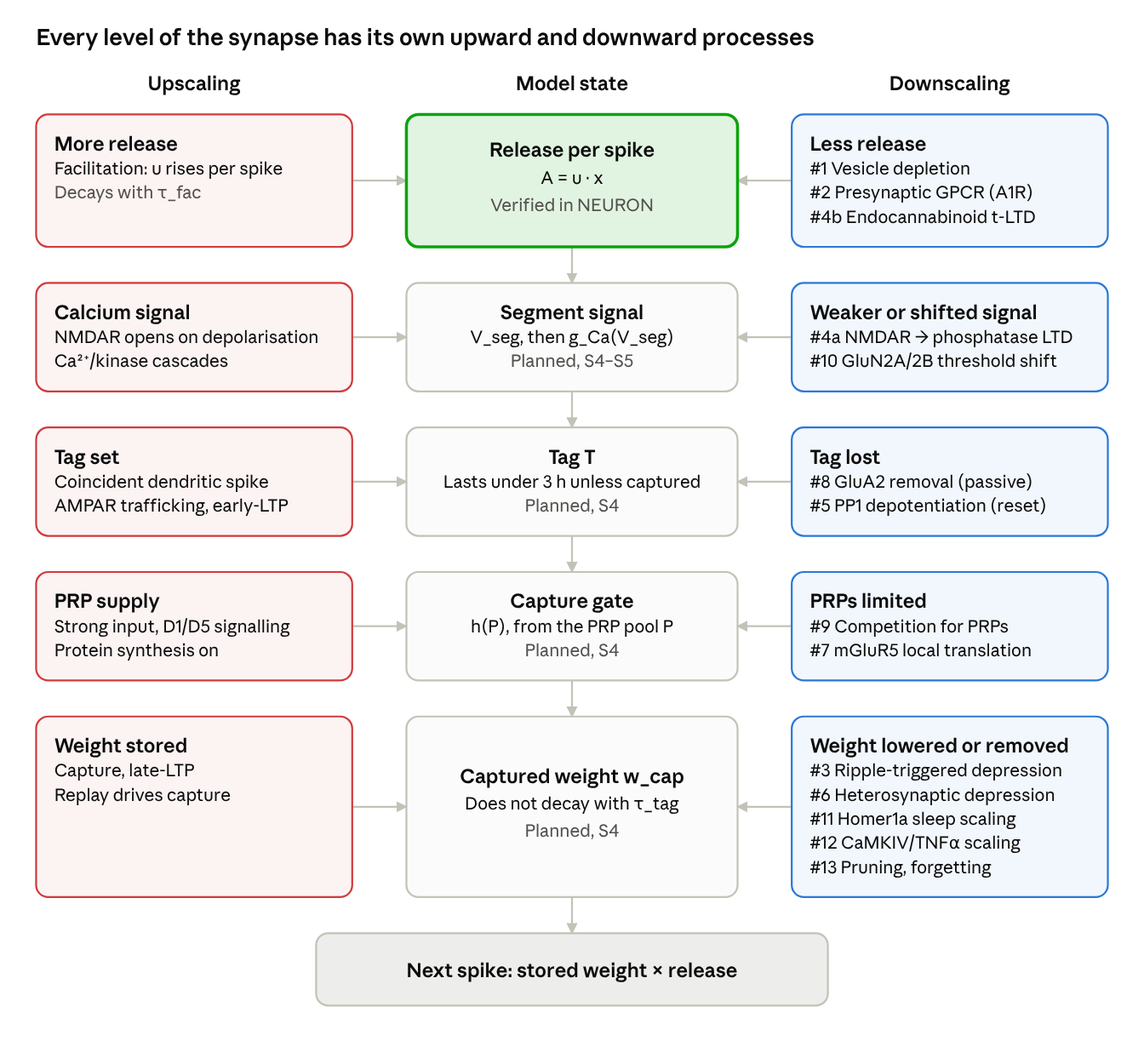
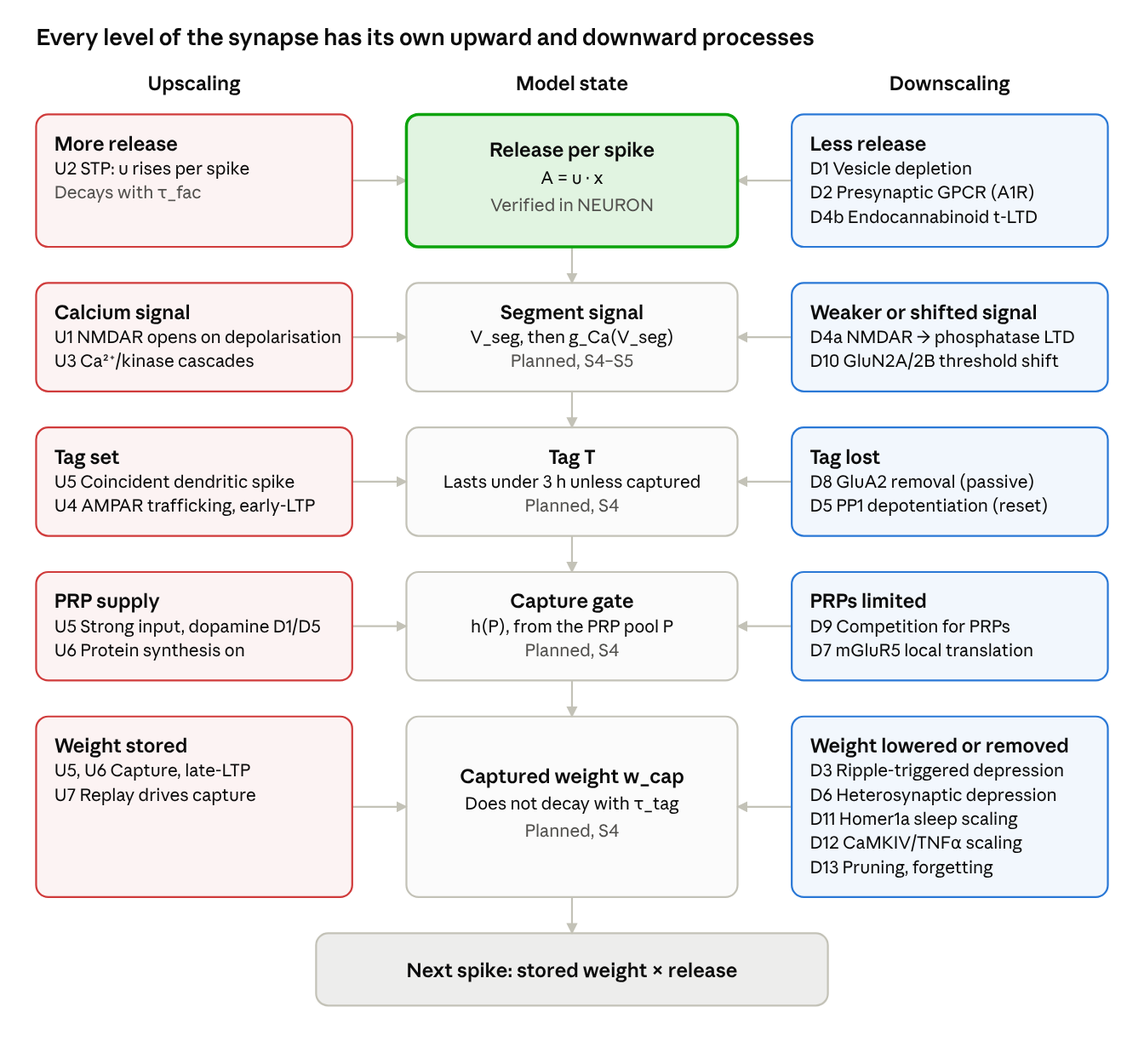
Docs: index downscaling pathways D1-D13, rename U2 to STP
Replace the # labels with D labels to match U1-U8 in the plasticity
overview and its figures, label the upscaling boxes in Figure 2, and
spell out dopamine D1/D5 receptors to avoid a clash with the new labels.

diff --git a/docs/plasticity_up_down_model_2026-11-06.md b/docs/plasticity_up_down_model_2026-11-06.md
@@ -29,6 +29,7 @@ Cell and pathway names match the [status report of November 2026](report_2026-11
 | CA1, CA3 | Cornu Ammonis areas 1 and 3 |
 | CaMKII, CaMKIV | Ca²⁺/calmodulin-dependent protein kinases II and IV |
 | CB1 | Cannabinoid receptor type 1 |
+| D1–D13 | Downscaling pathways, numbered as in Table 2; D4 has parts a and b |
 | eCB | Endocannabinoid |
 | E-LTP, L-LTP | Early and late long-term potentiation |
 | E/I | Excitation/inhibition |
@@ -61,6 +62,7 @@ Cell and pathway names match the [status report of November 2026](report_2026-11
 | T | Tag variable; also the tagged input pathway when written "T pathway" |
 | TM | Tsodyks–Markram synapse model |
 | TNFα | Tumour necrosis factor alpha |
+| U1–U8 | Upscaling processes, numbered as in Table 1 |
 | VGCC | Voltage-gated calcium channel |
 
 ## Timescales
@@ -80,14 +82,14 @@ Late-LTP has two separate times: about 4–8 h until it stabilises, then days or
 
 ## Upscaling: from one spike to a lasting weight
 
-Upscaling is a chain of eight processes (Table 1). Of these, only facilitation is implemented as plasticity so far. The NEURON model will reach as far as late-LTP, and replay enters only as an imposed input.
+Upscaling is a chain of eight processes (Table 1). Of these, only STP (U2) is implemented as plasticity so far. The NEURON model will reach as far as late-LTP, and replay enters only as an imposed input.
 
 **Table 1.** The eight upscaling processes, from fastest to slowest, with their terms in the model and their status.
 
 | # | Process | Timescale | What it does | Term in the model | Status |
 | --- | --- | --- | --- | --- | --- |
 | U1 | Neurotransmission | AMPA ms; NMDA hundreds of ms | Receptor gating carries each synaptic event | AMPA and GABA_A conductances | AMPA and GABA_A run; NMDA planned |
-| U2 | Facilitation (STP) | 10 ms–1 s | Each spike raises the release fraction u | u in `TMSyn` | Verified |
+| U2 | STP | 10 ms–1 s | Each spike raises the release fraction u | u in `TMSyn` | Verified |
 | U3 | Ca²⁺/kinase cascades | 1 s–5 min | Decides whether a weight update happens | Lumped into g_Ca(V_seg); no explicit kinase | Planned, S4–S5 |
 | U4 | AMPAR trafficking, early-LTP | 1–30 min, decays over 1–3 h | Adds receptors, independent of protein synthesis, and fades | Carried by the tag T in the plan; see limits | Planned, S4 |
 | U5 | Synaptic tagging and capture | Set during induction; tag lasts under 3 h | A local tag is captured if PRPs arrive before it decays | T, P, h(P) in `SegTag` | Planned, S4 |
@@ -133,22 +135,22 @@ Rules such as STDP, BCM or firing-rate homeostasis are a separate level: they sa
 
 | Pathway (site) | Timescale | Sensor → effector | Rule | Term in the model | Status |
 | --- | --- | --- | --- | --- | --- |
-| #1 Vesicle-pool depletion (pre) | 10 ms–10 s | Spike and VGCC Ca²⁺ → readily releasable pool depleted | Frequency-dependent depression | x in `TMSyn` | Verified, in circuit |
-| #2 Presynaptic GPCR inhibition (pre) | 50 ms–min; tonic over hours | A1R, GABA_B, group II/III mGluR → lower P_r | Tonic and neuromodulatory gain | U_eff in `TMSynPI` | A1R verified, not in circuit |
-| #3 SWR-triggered NMDAR depression (post) | Ripple about 40–100 ms; effect lasts hours | NMDAR during SWR → AMPAR weakening (effector unresolved) | Offline depression | Stored weight of non-replayed inputs | Candidate |
-| #4a NMDAR → calcineurin/PP1 LTD (post) | Induction s–min; expression hours | Moderate NMDAR Ca²⁺ → GluA1-S845 dephosphorylation, AMPAR endocytosis | Rate-dependent LTD | Low-Ca branch of g_Ca | Candidate |
-| #4b Endocannabinoid → CB1 t-LTD (pre, induced post) | Induction s–min; expression hours | Post mGluR and Ca²⁺ → eCB; pre CB1 and NMDAR → lower P_r | STDP depression | Reduction of U | Open: see limits |
-| #5 PP1 depotentiation (post) | Minutes to tens of minutes, by protocol | LFS, NMDAR Ca²⁺ and A1R → PP1 reverses phosphorylation | Reversal of recent LTP | Active reset of T | Candidate |
-| #6 IP3R/calcineurin heterosynaptic depression (post, unstimulated) | Min–hours | Neighbour potentiation, group I mGluR, IP3R Ca²⁺ → inactive spines shrink | Heterosynaptic normalisation | Conservation per segment | Candidate |
-| #7 mGluR5 → local-translation LTD (post) | Min–1 day | Group I mGluR → Arc, STEP, MAP1B translation, AMPAR endocytosis | Protein-synthesis-dependent LTD | Draws on the PRP machinery | Deferred |
-| #8 Constitutive GluA2 endocytosis (post) | Early-LTP under 3 h; also erodes established memory over weeks | No sensor: absence of capture → inserted AMPARs removed | Decay of unconsolidated LTP | τ_tag | Planned, S4 |
-| #9 PRP competition (post; extent of the pool debated) | 30 min–8 h | No sensor: finite pool, synthesis against degradation | Competition between inputs | Shared capture resource | Not in the equations yet |
-| #10 GluN2A/2B threshold shift (post) | 30 min–days | Activity history → subunit ratio changes | BCM sliding threshold | Moves θ_p of g_Ca | Candidate |
-| #11 Homer1a–mGluR5 sleep scaling (post) | Hours, each sleep cycle | Sleep state → Homer1a → GluA1 dephosphorylation, AMPAR removal | SHY | Global step between replay epochs | Deferred |
-| #12 CaMKIV/TNFα synaptic scaling (post; also P_r) | Hours to days | Somatic Ca²⁺, glial TNFα → multiplicative AMPAR change | Firing-rate homeostasis | Multiplicative factor on weights | Candidate, needs stated compression |
-| #13 Complement pruning, Rac1/cofilin (whole synapse) | Days–months | C1q/C3 at weak synapses → microglial removal; actin disassembly | Structural forgetting | Removal of uncaptured traces | Deferred |
+| D1 Vesicle-pool depletion (pre) | 10 ms–10 s | Spike and VGCC Ca²⁺ → readily releasable pool depleted | Frequency-dependent depression | x in `TMSyn` | Verified, in circuit |
+| D2 Presynaptic GPCR inhibition (pre) | 50 ms–min; tonic over hours | A1R, GABA_B, group II/III mGluR → lower P_r | Tonic and neuromodulatory gain | U_eff in `TMSynPI` | A1R verified, not in circuit |
+| D3 SWR-triggered NMDAR depression (post) | Ripple about 40–100 ms; effect lasts hours | NMDAR during SWR → AMPAR weakening (effector unresolved) | Offline depression | Stored weight of non-replayed inputs | Candidate |
+| D4a NMDAR → calcineurin/PP1 LTD (post) | Induction s–min; expression hours | Moderate NMDAR Ca²⁺ → GluA1-S845 dephosphorylation, AMPAR endocytosis | Rate-dependent LTD | Low-Ca branch of g_Ca | Candidate |
+| D4b Endocannabinoid → CB1 t-LTD (pre, induced post) | Induction s–min; expression hours | Post mGluR and Ca²⁺ → eCB; pre CB1 and NMDAR → lower P_r | STDP depression | Reduction of U | Open: see limits |
+| D5 PP1 depotentiation (post) | Minutes to tens of minutes, by protocol | LFS, NMDAR Ca²⁺ and A1R → PP1 reverses phosphorylation | Reversal of recent LTP | Active reset of T | Candidate |
+| D6 IP3R/calcineurin heterosynaptic depression (post, unstimulated) | Min–hours | Neighbour potentiation, group I mGluR, IP3R Ca²⁺ → inactive spines shrink | Heterosynaptic normalisation | Conservation per segment | Candidate |
+| D7 mGluR5 → local-translation LTD (post) | Min–1 day | Group I mGluR → Arc, STEP, MAP1B translation, AMPAR endocytosis | Protein-synthesis-dependent LTD | Draws on the PRP machinery | Deferred |
+| D8 Constitutive GluA2 endocytosis (post) | Early-LTP under 3 h; also erodes established memory over weeks | No sensor: absence of capture → inserted AMPARs removed | Decay of unconsolidated LTP | τ_tag | Planned, S4 |
+| D9 PRP competition (post; extent of the pool debated) | 30 min–8 h | No sensor: finite pool, synthesis against degradation | Competition between inputs | Shared capture resource | Not in the equations yet |
+| D10 GluN2A/2B threshold shift (post) | 30 min–days | Activity history → subunit ratio changes | BCM sliding threshold | Moves θ_p of g_Ca | Candidate |
+| D11 Homer1a–mGluR5 sleep scaling (post) | Hours, each sleep cycle | Sleep state → Homer1a → GluA1 dephosphorylation, AMPAR removal | SHY | Global step between replay epochs | Deferred |
+| D12 CaMKIV/TNFα synaptic scaling (post; also P_r) | Hours to days | Somatic Ca²⁺, glial TNFα → multiplicative AMPAR change | Firing-rate homeostasis | Multiplicative factor on weights | Candidate, needs stated compression |
+| D13 Complement pruning, Rac1/cofilin (whole synapse) | Days–months | C1q/C3 at weak synapses → microglial removal; actin disassembly | Structural forgetting | Removal of uncaptured traces | Deferred |
 
-"Candidate" means proposed for after S4–S6, in this order: #8 and #5, #4a and #10, #6, #3, #12. Nothing in this group is built yet.
+"Candidate" means proposed for after S4–S6, in this order: D8 and D5, D4a and D10, D6, D3, D12. Nothing in this group is built yet.
 
 The sections below group the pathways by the model state they act on, in the same order as Figure 2. Release-level equations are implemented and verified. Equations marked "proposed" are our suggested forms: they are not in the plan, and their parameters have no source yet.
 
@@ -156,7 +158,7 @@ The sections below group the pathways by the model state they act on, in the sam
 
 These pathways lower release, not the stored weight. The fast ones recover on their own, and all of them act through x or U.
 
-**#1 Vesicle-pool depletion.** Each release uses part of the readily releasable pool, so later responses in a train shrink until the pool recovers. Single hippocampal release sites have small pools, about 5 quanta on average (Dobrunz & Stevens 1997). The model represents this with x, the available resources. It does not include receptor desensitisation or release-site refractoriness.
+**D1 Vesicle-pool depletion.** Each release uses part of the readily releasable pool, so later responses in a train shrink until the pool recovers. Single hippocampal release sites have small pools, about 5 quanta on average (Dobrunz & Stevens 1997). The model represents this with x, the available resources. It does not include receptor desensitisation or release-site refractoriness.
 
 ```math
 x_n^+ = x_n^-(1 - u_n^+), \qquad \frac{dx}{dt} = \frac{1 - x}{\tau_{rec}} \qquad (5)
@@ -164,7 +166,7 @@ x_n^+ = x_n^-(1 - u_n^+), \qquad \frac{dx}{dt} = \frac{1 - x}{\tau_{rec}} \qquad
 
 τ_rec ranges from 138 to 1250 ms across our pathways, so inhibitory synapses onto PYR recover most slowly.
 
-**#2 Presynaptic GPCR inhibition.** A1R, GABA_B and group II/III mGluRs lower release probability through G-protein inhibition of calcium channels and the release machinery. Adenosine acts in two ways: a tonic level, and a phasic rise released by activity (Mitchell, Lupica & Dunwiddie 1993). `TMSynPI` implements both for A1R:
+**D2 Presynaptic GPCR inhibition.** A1R, GABA_B and group II/III mGluRs lower release probability through G-protein inhibition of calcium channels and the release machinery. Adenosine acts in two ways: a tonic level, and a phasic rise released by activity (Mitchell, Lupica & Dunwiddie 1993). `TMSynPI` implements both for A1R:
 
 ```math
 U_{eff} = U\,(1 - i_{tonic})\,(1 - I(t)), \qquad I(t) = i_{max}\left(1 - e^{-D(t)}\right) \qquad (6)
@@ -172,7 +174,7 @@ U_{eff} = U\,(1 - i_{tonic})\,(1 - I(t)), \qquad I(t) = i_{max}\left(1 - e^{-D(t
 
 D(t) sums a double-exponential term for each SC volley, after a 50 ms lag. From Mitchell et al. (rat, 34 °C, 2.5 mM Ca, SC fEPSP): i_tonic = 0.15, i_max = 0.40 as a lower bound, and c = 0.315 per volley. The rise and decay constants, 168 and 176 ms, were fitted to that paper's time course. At this drive SC→PYR loses its net upscaling window. For GABA_B we have only a maximum effect, so it does not run.
 
-**#4b Endocannabinoid → CB1 t-LTD.** When a postsynaptic spike precedes a presynaptic one, postsynaptic calcium and group I mGluR drive endocannabinoid synthesis. Retrograde CB1 activation, together with presynaptic NMDARs, then lowers release (Sjöström 2003, neocortical layer 5). At mouse CA3→CA1 synapses at P12–P18, this form also needs IP3R calcium release, astrocyte signalling and presynaptic calcineurin (Andrade-Talavera 2016). It is lost in the fourth postnatal week but returns when A1Rs are blocked (Pérez-Rodríguez 2019), which links it to #2. Because expression is presynaptic, the proposed form scales U:
+**D4b Endocannabinoid → CB1 t-LTD.** When a postsynaptic spike precedes a presynaptic one, postsynaptic calcium and group I mGluR drive endocannabinoid synthesis. Retrograde CB1 activation, together with presynaptic NMDARs, then lowers release (Sjöström 2003, neocortical layer 5). At mouse CA3→CA1 synapses at P12–P18, this form also needs IP3R calcium release, astrocyte signalling and presynaptic calcineurin (Andrade-Talavera 2016). It is lost in the fourth postnatal week but returns when A1Rs are blocked (Pérez-Rodríguez 2019), which links it to D2. Because expression is presynaptic, the proposed form scales U:
 
 ```math
 U \rightarrow U\,(1 - d_{tLTD}) \quad \text{(proposed)} \qquad (7)
@@ -182,15 +184,15 @@ U \rightarrow U\,(1 - d_{tLTD}) \quad \text{(proposed)} \qquad (7)
 
 These pathways decide the sign of a change. They do not exist in the current plan, which has one sigmoid and can only set a tag.
 
-**#4a NMDAR → calcineurin/PP1 LTD.** Modest, prolonged NMDAR calcium favours phosphatases over kinases. Calcineurin inactivates inhibitor-1, which frees PP1 (Mulkey 1994). GluA1 is then dephosphorylated and AMPARs are removed by endocytosis. In rat CA1, 900 pulses at 1–3 Hz depress responses for over 1 h, while the same pulses at 50 Hz usually potentiate (Dudek & Bear 1992). This LTD is input-specific and needs postsynaptic calcium (Mulkey & Malenka 1992). The site dephosphorylated depends on history: the PKA site in naive synapses, the CaMKII site in potentiated ones (Lee 2000). The calcium-control hypothesis reduces this to two thresholds (Lisman 1989; Shouval 2002):
+**D4a NMDAR → calcineurin/PP1 LTD.** Modest, prolonged NMDAR calcium favours phosphatases over kinases. Calcineurin inactivates inhibitor-1, which frees PP1 (Mulkey 1994). GluA1 is then dephosphorylated and AMPARs are removed by endocytosis. In rat CA1, 900 pulses at 1–3 Hz depress responses for over 1 h, while the same pulses at 50 Hz usually potentiate (Dudek & Bear 1992). This LTD is input-specific and needs postsynaptic calcium (Mulkey & Malenka 1992). The site dephosphorylated depends on history: the PKA site in naive synapses, the CaMKII site in potentiated ones (Lee 2000). The calcium-control hypothesis reduces this to two thresholds (Lisman 1989; Shouval 2002):
 
 ```math
 \text{outcome}(Ca) = \begin{cases} \text{no change} & Ca < \theta_d \\ \text{depression} & \theta_d \le Ca < \theta_p \\ \text{tag} & Ca \ge \theta_p \end{cases} \quad \text{(proposed)} \qquad (8)
 ```
 
-Eq. 8 would replace the single sigmoid g_Ca of Eq. 2. It covers rate dependence only; timing-dependent depression is #4b.
+Eq. 8 would replace the single sigmoid g_Ca of Eq. 2. It covers rate dependence only; timing-dependent depression is D4b.
 
-**#10 GluN2A/2B threshold shift.** The LTD/LTP crossover moves with recent activity: high activity raises θ_p and favours depression, and low activity lowers it. BCM is the rule (Bienenstock, Cooper & Munro 1982), and NMDAR subunit composition is one possible substrate. In rat visual cortex, experience reduces NR2B-only receptors and shortens NMDAR currents within hours, while deprivation reverses this over days (Philpot 2001). We have no CA1 source yet. The proposed form adds one slow state per segment, driven by the time-averaged calcium signal:
+**D10 GluN2A/2B threshold shift.** The LTD/LTP crossover moves with recent activity: high activity raises θ_p and favours depression, and low activity lowers it. BCM is the rule (Bienenstock, Cooper & Munro 1982), and NMDAR subunit composition is one possible substrate. In rat visual cortex, experience reduces NR2B-only receptors and shortens NMDAR currents within hours, while deprivation reverses this over days (Philpot 2001). We have no CA1 source yet. The proposed form adds one slow state per segment, driven by the time-averaged calcium signal:
 
 ```math
 \tau_\theta \frac{d\theta_p}{dt} = \theta_0 + \beta\,\bar{g}_{Ca} - \theta_p \quad \text{(proposed)} \qquad (9)
@@ -200,11 +202,11 @@ Eq. 8 would replace the single sigmoid g_Ca of Eq. 2. It covers rate dependence 
 
 The tag can be lost in two ways: passively, or by an active reset. The first is built into the plan; the second would give the capture test a second falsification arm.
 
-**#8 Constitutive GluA2 endocytosis.** No sensor is needed. Without capture, AMPAR endocytosis removes the added receptors, and blocking this endocytosis converts decaying LTP into non-decaying LTP (Dong 2015). In the plan this is the decay term −T/τ_tag of Eq. 4. The process does not stop at the tag: blocking GluA2 removal with interference peptides prevents forgetting of established memories in rats (Migues 2016). The plan does not include that slower action on captured weight.
+**D8 Constitutive GluA2 endocytosis.** No sensor is needed. Without capture, AMPAR endocytosis removes the added receptors, and blocking this endocytosis converts decaying LTP into non-decaying LTP (Dong 2015). In the plan this is the decay term −T/τ_tag of Eq. 4. The process does not stop at the tag: blocking GluA2 removal with interference peptides prevents forgetting of established memories in rats (Migues 2016). The plan does not include that slower action on captured weight.
 
-**#5 PP1 depotentiation.** Low-frequency stimulation soon after LTP induction reverses it, through NMDARs and protein phosphatases (O'Dell & Kandel 1994). The window depends on protocol and preparation:
+**D5 PP1 depotentiation.** Low-frequency stimulation soon after LTP induction reverses it, through NMDARs and protein phosphatases (O'Dell & Kandel 1994). The window depends on protocol and preparation:
 
-- **Rat slices, 2 Hz for 10 min:** effective at 3 min or less, not at 10 min. It needs A1R, which ties it to #2 (Huang 1999).
+- **Rat slices, 2 Hz for 10 min:** effective at 3 min or less, not at 10 min. It needs A1R, which ties it to D2 (Huang 1999).
 - **Adult rats in vivo, 1 Hz then 5 Hz:** given 5–15 min after LTP, it reversed potentiation for the 1 h test in 64% of animals (Staubli & Lynch 1990).
 - **Guinea pig slices, 1 Hz for 1000 pulses:** given at 20 min, it reduced the potentiated EPSP slope by 68.5%, with less effect at 100 min (Fujii 1991).
 
@@ -218,43 +220,43 @@ T \rightarrow \rho\,T, \quad 0 \le \rho < 1, \quad \text{if LFS arrives within }
 
 These pathways make capture a limited resource instead of an independent gate at each synapse.
 
-**#9 PRP competition.** Under reduced protein synthesis, new protein-synthesis-dependent LTP on one pathway occurs at the expense of maintaining earlier LTP on another (Fonseca 2004). Synthesis is not the only factor: blocking proteasomal degradation also disrupts late-LTP, and blocking both restores it (Fonseca 2006). The planned equations (Eqs. 3 and 4) cannot show competition, because capture never consumes P. The proposed form shares P within a compartment and adds consumption over its tagged groups j:
+**D9 PRP competition.** Under reduced protein synthesis, new protein-synthesis-dependent LTP on one pathway occurs at the expense of maintaining earlier LTP on another (Fonseca 2004). Synthesis is not the only factor: blocking proteasomal degradation also disrupts late-LTP, and blocking both restores it (Fonseca 2006). The planned equations (Eqs. 3 and 4) cannot show competition, because capture never consumes P. The proposed form shares P within a compartment and adds consumption over its tagged groups j:
 
 ```math
 \frac{dP}{dt} = -\frac{P}{\tau_P} - \gamma \sum_j k_{cap}\, h(P)\, T_j \quad \text{(proposed)} \qquad (11)
 ```
 
-**#7 mGluR5 → local-translation LTD.** Group I mGluR activation triggers local protein synthesis in dendrites that changes transmission within minutes (Huber 2000). Rapid Arc translation raises the AMPAR endocytosis rate for a long time, and this LTD needs Arc; NMDAR-LTD does not (Waung 2008). The two LTD forms coexist in juvenile rat CA1 and are mechanistically distinct (Oliet 1997). That paper found reduced event frequency with no change in quantal size for mGluR-LTD, so its expression site is not settled by the abstracts we read. Our link to capture, that it competes for the same translation machinery, is a hypothesis. We propose no equation until the sign of change and the LTD tag are decided.
+**D7 mGluR5 → local-translation LTD.** Group I mGluR activation triggers local protein synthesis in dendrites that changes transmission within minutes (Huber 2000). Rapid Arc translation raises the AMPAR endocytosis rate for a long time, and this LTD needs Arc; NMDAR-LTD does not (Waung 2008). The two LTD forms coexist in juvenile rat CA1 and are mechanistically distinct (Oliet 1997). That paper found reduced event frequency with no change in quantal size for mGluR-LTD, so its expression site is not settled by the abstracts we read. Our link to capture, that it competes for the same translation machinery, is a hypothesis. We propose no equation until the sign of change and the LTD tag are decided.
 
 ### Stored weight: lowering or removing what was kept
 
 These pathways act on the stored weight, mostly offline and over hours or longer. All of them are outside the current plan, and the slower ones would need a stated compression factor in any short run.
 
-**#3 SWR-triggered NMDAR depression.** In mice, sharp-wave ripples trigger long-lasting, NMDAR-dependent depression selective for one input pathway. Silencing ripples during slow-wave states prevented the down-regulation of net synaptic weights and impaired new learning (Norimoto 2018). The downstream effector is not resolved. CA1 firing in rats falls 11% per hour across sleep, and spindle and ripple incidence predict the change (Miyawaki & Diba 2016). In mouse cortex, Up states bias plasticity towards depression of inputs that do not drive the cell (González-Rueda 2018). The proposed form applies per ripple to inputs not replayed:
+**D3 SWR-triggered NMDAR depression.** In mice, sharp-wave ripples trigger long-lasting, NMDAR-dependent depression selective for one input pathway. Silencing ripples during slow-wave states prevented the down-regulation of net synaptic weights and impaired new learning (Norimoto 2018). The downstream effector is not resolved. CA1 firing in rats falls 11% per hour across sleep, and spindle and ripple incidence predict the change (Miyawaki & Diba 2016). In mouse cortex, Up states bias plasticity towards depression of inputs that do not drive the cell (González-Rueda 2018). The proposed form applies per ripple to inputs not replayed:
 
 ```math
 w_j \rightarrow w_j\,(1 - \delta_{SWR}), \quad j \notin \text{replayed} \quad \text{(proposed)} \qquad (12)
 ```
 
-**#6 IP3R/calcineurin heterosynaptic depression.** Potentiating several neighbouring spines on a CA1 dendrite shrinks and weakens nearby unstimulated ones. Blocking calcineurin, IP3Rs or group I mGluRs stops this shrinkage but not the potentiation, which points to an active signal rather than competition for structural resources (Oh 2015). In amygdala intercalated neurons, opposite heterosynaptic changes keep total weight nearly constant (Royer & Paré 2003); we have no such measurement for CA1. The proposed form spreads the potentiation over the N_i inactive synapses of the same segment, once enough neighbours have potentiated:
+**D6 IP3R/calcineurin heterosynaptic depression.** Potentiating several neighbouring spines on a CA1 dendrite shrinks and weakens nearby unstimulated ones. Blocking calcineurin, IP3Rs or group I mGluRs stops this shrinkage but not the potentiation, which points to an active signal rather than competition for structural resources (Oh 2015). In amygdala intercalated neurons, opposite heterosynaptic changes keep total weight nearly constant (Royer & Paré 2003); we have no such measurement for CA1. The proposed form spreads the potentiation over the N_i inactive synapses of the same segment, once enough neighbours have potentiated:
 
 ```math
 \Delta w_j = -\frac{\beta}{N_i} \sum_{i\ \text{potentiated}} \Delta w_i \quad \text{(proposed)} \qquad (13)
 ```
 
-**#11 Homer1a–mGluR5 sleep scaling.** During sleep in mice, synapses lose and dephosphorylate AMPARs, driven by Homer1a and group I mGluR signalling. Noradrenaline and adenosine link this to arousal and sleep need (Diering 2017). In rat cortex and hippocampus, GluA1-containing AMPAR levels are high in wake and low in sleep (Vyazovskiy 2008). In mouse cortex the axon–spine interface shrinks about 18% after sleep in proportion to its size, but large synapses are spared (de Vivo 2017). So the scaling is not uniform. REM sleep in mouse motor cortex both prunes and strengthens new spines (Li 2017). The proposed form is one step per sleep cycle, excluding a spared set:
+**D11 Homer1a–mGluR5 sleep scaling.** During sleep in mice, synapses lose and dephosphorylate AMPARs, driven by Homer1a and group I mGluR signalling. Noradrenaline and adenosine link this to arousal and sleep need (Diering 2017). In rat cortex and hippocampus, GluA1-containing AMPAR levels are high in wake and low in sleep (Vyazovskiy 2008). In mouse cortex the axon–spine interface shrinks about 18% after sleep in proportion to its size, but large synapses are spared (de Vivo 2017). So the scaling is not uniform. REM sleep in mouse motor cortex both prunes and strengthens new spines (Li 2017). The proposed form is one step per sleep cycle, excluding a spared set:
 
 ```math
 w_j \rightarrow w_j\,(1 - \varepsilon_{sleep}), \quad j \notin \text{spared} \quad \text{(proposed)} \qquad (14)
 ```
 
-**#12 CaMKIV/TNFα synaptic scaling.** Sustained changes in firing scale all of a neuron's excitatory synapses up or down (Turrigiano 1998). Reduced somatic calcium lowers CaMKIV activation and increases transcription (Ibata 2008); glial TNFα and Arc-driven AMPAR endocytosis also contribute (Stellwagen & Malenka 2006; Shepherd 2006). Most of this evidence comes from culture, and much of it is scaling up after silencing. In hippocampal organotypic cultures the response is synapse-specific: CA3→CA1 goes up, and recurrent CA3→CA3 goes down (Kim & Tsien 2008). Local dendritic activity also sets release probability (Branco 2008), so a presynaptic term would scale U. The proposed postsynaptic form, with r the firing rate and r\* its target, is:
+**D12 CaMKIV/TNFα synaptic scaling.** Sustained changes in firing scale all of a neuron's excitatory synapses up or down (Turrigiano 1998). Reduced somatic calcium lowers CaMKIV activation and increases transcription (Ibata 2008); glial TNFα and Arc-driven AMPAR endocytosis also contribute (Stellwagen & Malenka 2006; Shepherd 2006). Most of this evidence comes from culture, and much of it is scaling up after silencing. In hippocampal organotypic cultures the response is synapse-specific: CA3→CA1 goes up, and recurrent CA3→CA3 goes down (Kim & Tsien 2008). Local dendritic activity also sets release probability (Branco 2008), so a presynaptic term would scale U. The proposed postsynaptic form, with r the firing rate and r\* its target, is:
 
 ```math
 \tau_s \frac{dw_i}{dt} = w_i\,\frac{r^* - r}{r^*} \quad \text{(proposed)} \qquad (15)
 ```
 
-**#13 Complement pruning and Rac1/cofilin forgetting.** Over long periods, whole synapses are removed. In adult mouse hippocampus, microglia engulf synaptic components, and depleting microglia or inhibiting complement in engram cells prevents forgetting (Wang 2020). Rac-dependent forgetting was first shown in *Drosophila* (Shuai 2010). Dentate neurogenesis also causes forgetting (Akers 2014), but it lies outside our CA1 circuit. We propose no equation: this pathway ends the life of a trace, far beyond any planned run.
+**D13 Complement pruning and Rac1/cofilin forgetting.** Over long periods, whole synapses are removed. In adult mouse hippocampus, microglia engulf synaptic components, and depleting microglia or inhibiting complement in engram cells prevents forgetting (Wang 2020). Rac-dependent forgetting was first shown in *Drosophila* (Shuai 2010). Dentate neurogenesis also causes forgetting (Akers 2014), but it lies outside our CA1 circuit. We propose no equation: this pathway ends the life of a trace, far beyond any planned run.
 
 ## How the processes combine
 
@@ -286,15 +288,15 @@ The terms of Eq. 17 are facilitation, depletion, phasic A1R and tonic A1R. On th
 
 **4. Release feeds induction.** S3e will test what the tag reads from STP: per-event u · x and w · u · x. If tag amplitude follows B(f), the steady-state release relative to the first spike, then fast release dynamics decide which rates can set a tag.
 
-**5. Calcium could set the sign.** With two thresholds (Eq. 8), θ_d < Ca < θ_p gives depression (#4a) and Ca > θ_p gives a tag. Recent activity moves θ_p (#10; Eq. 9), so history changes the sign of the next change. The current plan has one sigmoid; two thresholds are a candidate extension.
+**5. Calcium could set the sign.** With two thresholds (Eq. 8), θ_d < Ca < θ_p gives depression (D4a) and Ca > θ_p gives a tag. Recent activity moves θ_p (D10; Eq. 9), so history changes the sign of the next change. The current plan has one sigmoid; two thresholds are a candidate extension.
 
-**6. A tag has three possible fates.** It is captured, it decays passively through AMPAR endocytosis (#8; Dong 2015), or low-frequency stimulation resets it soon after induction (#5). Reported windows run from 3 min or less (Huang 1999) to at least 20 min (Fujii 1991), depending on protocol and preparation. A reset tag can no longer capture PRPs, and stabilised late-LTP no longer reverses.
+**6. A tag has three possible fates.** It is captured, it decays passively through AMPAR endocytosis (D8; Dong 2015), or low-frequency stimulation resets it soon after induction (D5). Reported windows run from 3 min or less (Huang 1999) to at least 20 min (Fujii 1991), depending on protocol and preparation. A reset tag can no longer capture PRPs, and stabilised late-LTP no longer reverses.
 
-**7. The PRP pool links nearby synapses.** A strong input can supply PRPs for a weak input's tag, which is the Frey–Morris design. The original hypothesis made the pool cell-wide, but later work confines tagging and capture to dendritic compartments or branches (Sajikumar 2007, 2011; Govindarajan 2011). With limited synthesis, inputs compete (#9), and protein-synthesis-dependent LTD (#7) draws on the same machinery. Late-LTP also depends on protein degradation: blocking synthesis and degradation together restores it (Fonseca 2006).
+**7. The PRP pool links nearby synapses.** A strong input can supply PRPs for a weak input's tag, which is the Frey–Morris design. The original hypothesis made the pool cell-wide, but later work confines tagging and capture to dendritic compartments or branches (Sajikumar 2007, 2011; Govindarajan 2011). With limited synthesis, inputs compete (D9), and protein-synthesis-dependent LTD (D7) draws on the same machinery. Late-LTP also depends on protein degradation: blocking synthesis and degradation together restores it (Fonseca 2006).
 
-**8. Replay may select as well as store.** The same ripple could capture what is replayed and depress the rest (#3). Sleep (#11) and homeostatic scaling (#12) then lower total weight, and scaling preserves relative weights because it is multiplicative. Synapses that remain weak can be removed (#13). Each part has evidence: reactivated firing with ripple input induces LTP in rat slices (Sadowski 2016), and ripples trigger NMDAR-dependent depression in mice (Norimoto 2018). That replay content selects between them, and this whole sequence, is our hypothesis.
+**8. Replay may select as well as store.** The same ripple could capture what is replayed and depress the rest (D3). Sleep (D11) and homeostatic scaling (D12) then lower total weight, and scaling preserves relative weights because it is multiplicative. Synapses that remain weak can be removed (D13). Each part has evidence: reactivated firing with ripple input induces LTP in rat slices (Sadowski 2016), and ripples trigger NMDAR-dependent depression in mice (Norimoto 2018). That replay content selects between them, and this whole sequence, is our hypothesis.
 
-**9. Stability needs fast compensation.** Zenke & Gerstner 2017 argue that compensation must be comparable in speed to Hebbian growth, so slow scaling alone cannot stabilise it. Heterosynaptic depression (#6) is the candidate they name. We add #3 and #10 as candidates, though #10 may be too slow. Inside the STP stage, nothing limits potentiation except depletion and the inhibitory loop.
+**9. Stability needs fast compensation.** Zenke & Gerstner 2017 argue that compensation must be comparable in speed to Hebbian growth, so slow scaling alone cannot stabilise it. Heterosynaptic depression (D6) is the candidate they name. We add D3 and D10 as candidates, though D10 may be too slow. Inside the STP stage, nothing limits potentiation except depletion and the inhibitory loop.
 
 ## What is in NEURON today
 
@@ -306,7 +308,7 @@ The release level runs in NEURON; everything slower is still specification (Tabl
 | --- | --- | --- | --- |
 | 1. STP, S0–S3 | Release, up to about 1 s, plus U gains set per run | `TMSyn`, `TMSynPI` | Single-synapse work done: `TMSyn` matches the closed form to 8e-14, and steady-state rates match to 3e-11. Cells calibrated to Bezaire et al. 2016 at 34 °C but not yet running in the circuit |
 | 2. Tag and capture, S4–S6 | Segment signal, tag, PRP pool, captured weight | `SegTag`, NMDA with Mg²⁺ block, STDP step | Not started; none of these is written |
-| After S4–S6 | Slower downscaling, #3 to #13 except #8 | Each a dataclass plus a `build_*` function | Candidates only |
+| After S4–S6 | Slower downscaling, D3 to D13 except D8 | Each a dataclass plus a `build_*` function | Candidates only |
 
 The circuit has two spike generators, four cells and 11 projections, all with Tsodyks–Markram STP. Its only full run used placeholder cells, so it is a pilot and supports no PYR claim. The [status report of November 2026](report_2026-11-06.md) gives the projection table (its Table 1), cell fits (its Tables 2 and 3) and parameter sources (its Table 4).
 
@@ -325,7 +327,7 @@ The combined scheme makes predictions that can fail (Table 4). Only the first ha
 | Blocking capture leaves the weight at baseline, while PYR spike times during pathway S volleys stay identical | Normal capture against blocked capture | S4 | Not started |
 | Retained weight does not decrease as a protein-synthesis block starts later | Block at 0–8 h; report t₅₀ with its CI | S4 | Not started |
 | Partial NMDAR block shrinks the captured weight continuously, not all-or-nothing | NMDAR conductance 0–100% | S5 | Not started |
-| LFS inside the reset window abolishes capture | Add active reset (#5) as a second falsification arm | After S4–S6 | Candidate |
+| LFS inside the reset window abolishes capture | Add active reset (D5) as a second falsification arm | After S4–S6 | Candidate |
 
 t₅₀, the half-retention time, is compared with the 6 h behavioural window, not fitted to it. The target is a whole-animal measure and the model is one CA1 synapse, so agreement would show consistency, not mechanism.
 
@@ -336,8 +338,8 @@ The scheme is a hypothesis built largely from secondary and partly unchecked sou
 1. **Segment signal.** V_seg (Eq. 2) is an abstract leaky integral of synaptic input, although a biophysical cell already has local membrane voltage. The plan does not yet read voltage or NMDAR calcium directly.
 2. **Tag and early-LTP.** The plan carries early-LTP in T. Redondo & Morris 2011 report that the tagged state and LTP expression are dissociable, so they may need separate states.
 3. **One tag only.** Late-LTD is also tagged, and cross-tagging occurs (Sajikumar & Frey 2004). Tag molecules differ by process, with CaMKII for LTP and ERK1/2 for LTD in apical CA1 (Sajikumar 2007).
-4. **PRP trigger.** The plan increments P on somatic bursts, which has no source. Evidence points to strong synaptic input and D1/D5 dopamine signalling (Huang & Kandel 1995; Moncada & Viola 2007).
-5. **PRP pool.** The plan builds one `SegTag` per tagged synapse group, and capture does not consume P. Competition (#9) needs a pool shared within a compartment and a consumption term.
+4. **PRP trigger.** The plan increments P on somatic bursts, which has no source. Evidence points to strong synaptic input and dopamine D1/D5 receptor signalling (Huang & Kandel 1995; Moncada & Viola 2007).
+5. **PRP pool.** The plan builds one `SegTag` per tagged synapse group, and capture does not consume P. Competition (D9) needs a pool shared within a compartment and a consumption term.
 6. **No upper bound.** Nothing in the planned equations saturates w_cap (Eq. 4), so repeated events can raise it without limit. LTP saturation is experimentally real (Moser 1998).
 7. **Captured weight.** The model holds it stable, but GluA2 removal erodes established memories (Migues 2016), and maintenance needs recurring protein synthesis (Bekinschtein 2007).
 8. **Adult t-LTD.** Presynaptic t-LTD at mouse CA3→CA1 is lost in the fourth postnatal week (Pérez-Rodríguez 2019). Adult rat CA1 population data do show depression when post precedes pre by 20 ms (Pang 2019). The plan's ±20 ms depression lobe therefore has no settled adult mechanism. A presynaptic form would reduce U, not the postsynaptic weight.
@@ -347,7 +349,7 @@ The scheme is a hypothesis built largely from secondary and partly unchecked sou
 Other limits on the evidence:
 
 - **Unsourced values:** k_cap, n, τ_P, K, λ and τ_v have no source and will be swept.
-- **Mixed preparations:** cell targets are mouse and STP values are rat; two pathways use cortical values. Pathway #3 comes from mouse, #6's weight conservation from amygdala, Rac1 forgetting (#13) from *Drosophila*, and the GluN2A/2B data (#10) from rat visual cortex. Much LTD and t-LTD data come from juvenile animals.
+- **Mixed preparations:** cell targets are mouse and STP values are rat; two pathways use cortical values. Pathway D3 comes from mouse, D6's weight conservation from amygdala, Rac1 forgetting (D13) from *Drosophila*, and the GluN2A/2B data (D10) from rat visual cortex. Much LTD and t-LTD data come from juvenile animals.
 - **Timespans:** the spans of the downscaling pathways are order-of-magnitude summaries, not fitted values.
 - **Circuit size:** one PYR with contact-scaled projections cannot show population effects, ripple generation or replay ordering. Replay enters only as imposed input.
 - **Slow pathways:** those running over days need a stated compression factor in any short run, or they stay out.
@@ -378,23 +380,23 @@ On 6 November 2026 all 84 journal references behind this document resolved corre
 
 **Details checked against PubMed, PMC or publisher records, abstract level at most unless stated:**
 
-- Norimoto et al. 2018, *Science* 359:1524. [doi:10.1126/science.aao0702](https://doi.org/10.1126/science.aao0702) (#3)
-- Miyawaki & Diba 2016, *Curr Biol* 26:893 (#3)
-- González-Rueda et al. 2018, *Neuron* 97:1244. [doi:10.1016/j.neuron.2018.01.047](https://doi.org/10.1016/j.neuron.2018.01.047) (#3, cortex)
-- Lee et al. 2000, *Nature* 405:955. [doi:10.1038/35016089](https://doi.org/10.1038/35016089) (#4a)
-- Sjöström et al. 2003, *Neuron* 39:641 (#4b, neocortex)
-- Andrade-Talavera et al. 2016, *Cereb Cortex* 26:3637. [doi:10.1093/cercor/bhw172](https://doi.org/10.1093/cercor/bhw172) (#4b)
-- Huang et al. 1999, *J Neurosci* 19:9728 (#5)
-- Sajikumar & Frey 2004, *Neuroscience* 129:503. [doi:10.1016/j.neuroscience.2004.08.014](https://doi.org/10.1016/j.neuroscience.2004.08.014) (#5)
-- Oh et al. 2015, *Cell Rep* 10:162. [doi:10.1016/j.celrep.2014.12.016](https://doi.org/10.1016/j.celrep.2014.12.016) (#6)
-- Royer & Paré 2003, *Nature* 422:518. [doi:10.1038/nature01530](https://doi.org/10.1038/nature01530) (#6)
-- Migues et al. 2016, *J Neurosci* 36:3481. [doi:10.1523/JNEUROSCI.3333-15.2016](https://doi.org/10.1523/JNEUROSCI.3333-15.2016) (#8)
-- Fonseca et al. 2004, *Neuron* 44:1011. [doi:10.1016/j.neuron.2004.10.033](https://doi.org/10.1016/j.neuron.2004.10.033) (#9)
-- Li et al. 2017, *Nat Neurosci* 20:427. [doi:10.1038/nn.4479](https://doi.org/10.1038/nn.4479) (#11, motor cortex)
-- Ibata et al. 2008, *Neuron* 57:819 (#12)
-- Kim & Tsien 2008, *Neuron* 58:925. [doi:10.1016/j.neuron.2008.05.009](https://doi.org/10.1016/j.neuron.2008.05.009) (#12)
-- Branco et al. 2008, *Neuron* 59:475 (#12)
-- Wang et al. 2020, *Science* 367:688. [doi:10.1126/science.aaz2288](https://doi.org/10.1126/science.aaz2288) (#13)
+- Norimoto et al. 2018, *Science* 359:1524. [doi:10.1126/science.aao0702](https://doi.org/10.1126/science.aao0702) (D3)
+- Miyawaki & Diba 2016, *Curr Biol* 26:893 (D3)
+- González-Rueda et al. 2018, *Neuron* 97:1244. [doi:10.1016/j.neuron.2018.01.047](https://doi.org/10.1016/j.neuron.2018.01.047) (D3, cortex)
+- Lee et al. 2000, *Nature* 405:955. [doi:10.1038/35016089](https://doi.org/10.1038/35016089) (D4a)
+- Sjöström et al. 2003, *Neuron* 39:641 (D4b, neocortex)
+- Andrade-Talavera et al. 2016, *Cereb Cortex* 26:3637. [doi:10.1093/cercor/bhw172](https://doi.org/10.1093/cercor/bhw172) (D4b)
+- Huang et al. 1999, *J Neurosci* 19:9728 (D5)
+- Sajikumar & Frey 2004, *Neuroscience* 129:503. [doi:10.1016/j.neuroscience.2004.08.014](https://doi.org/10.1016/j.neuroscience.2004.08.014) (D5)
+- Oh et al. 2015, *Cell Rep* 10:162. [doi:10.1016/j.celrep.2014.12.016](https://doi.org/10.1016/j.celrep.2014.12.016) (D6)
+- Royer & Paré 2003, *Nature* 422:518. [doi:10.1038/nature01530](https://doi.org/10.1038/nature01530) (D6)
+- Migues et al. 2016, *J Neurosci* 36:3481. [doi:10.1523/JNEUROSCI.3333-15.2016](https://doi.org/10.1523/JNEUROSCI.3333-15.2016) (D8)
+- Fonseca et al. 2004, *Neuron* 44:1011. [doi:10.1016/j.neuron.2004.10.033](https://doi.org/10.1016/j.neuron.2004.10.033) (D9)
+- Li et al. 2017, *Nat Neurosci* 20:427. [doi:10.1038/nn.4479](https://doi.org/10.1038/nn.4479) (D11, motor cortex)
+- Ibata et al. 2008, *Neuron* 57:819 (D12)
+- Kim & Tsien 2008, *Neuron* 58:925. [doi:10.1016/j.neuron.2008.05.009](https://doi.org/10.1016/j.neuron.2008.05.009) (D12)
+- Branco et al. 2008, *Neuron* 59:475 (D12)
+- Wang et al. 2020, *Science* 367:688. [doi:10.1126/science.aaz2288](https://doi.org/10.1126/science.aaz2288) (D13)
 
 **Read for parameter values already in the code:**
 
